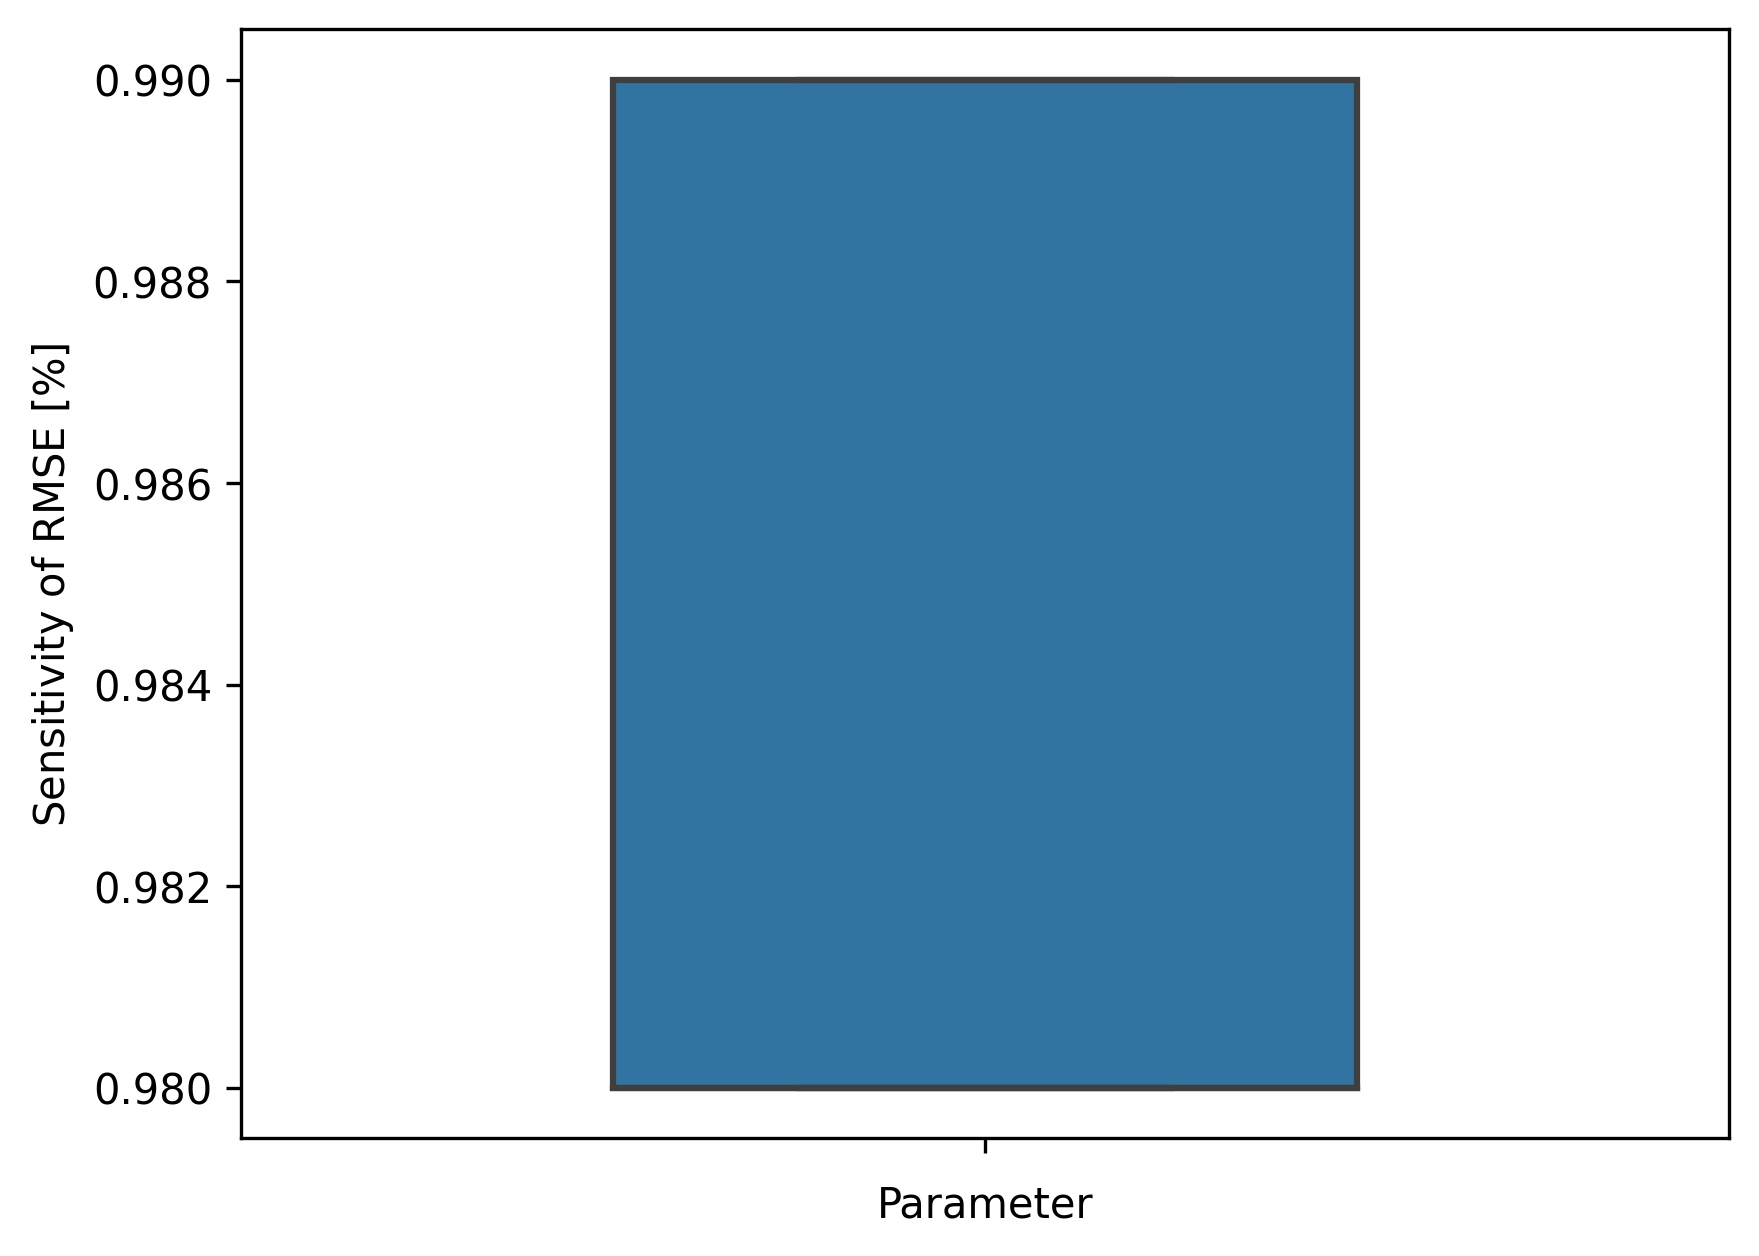
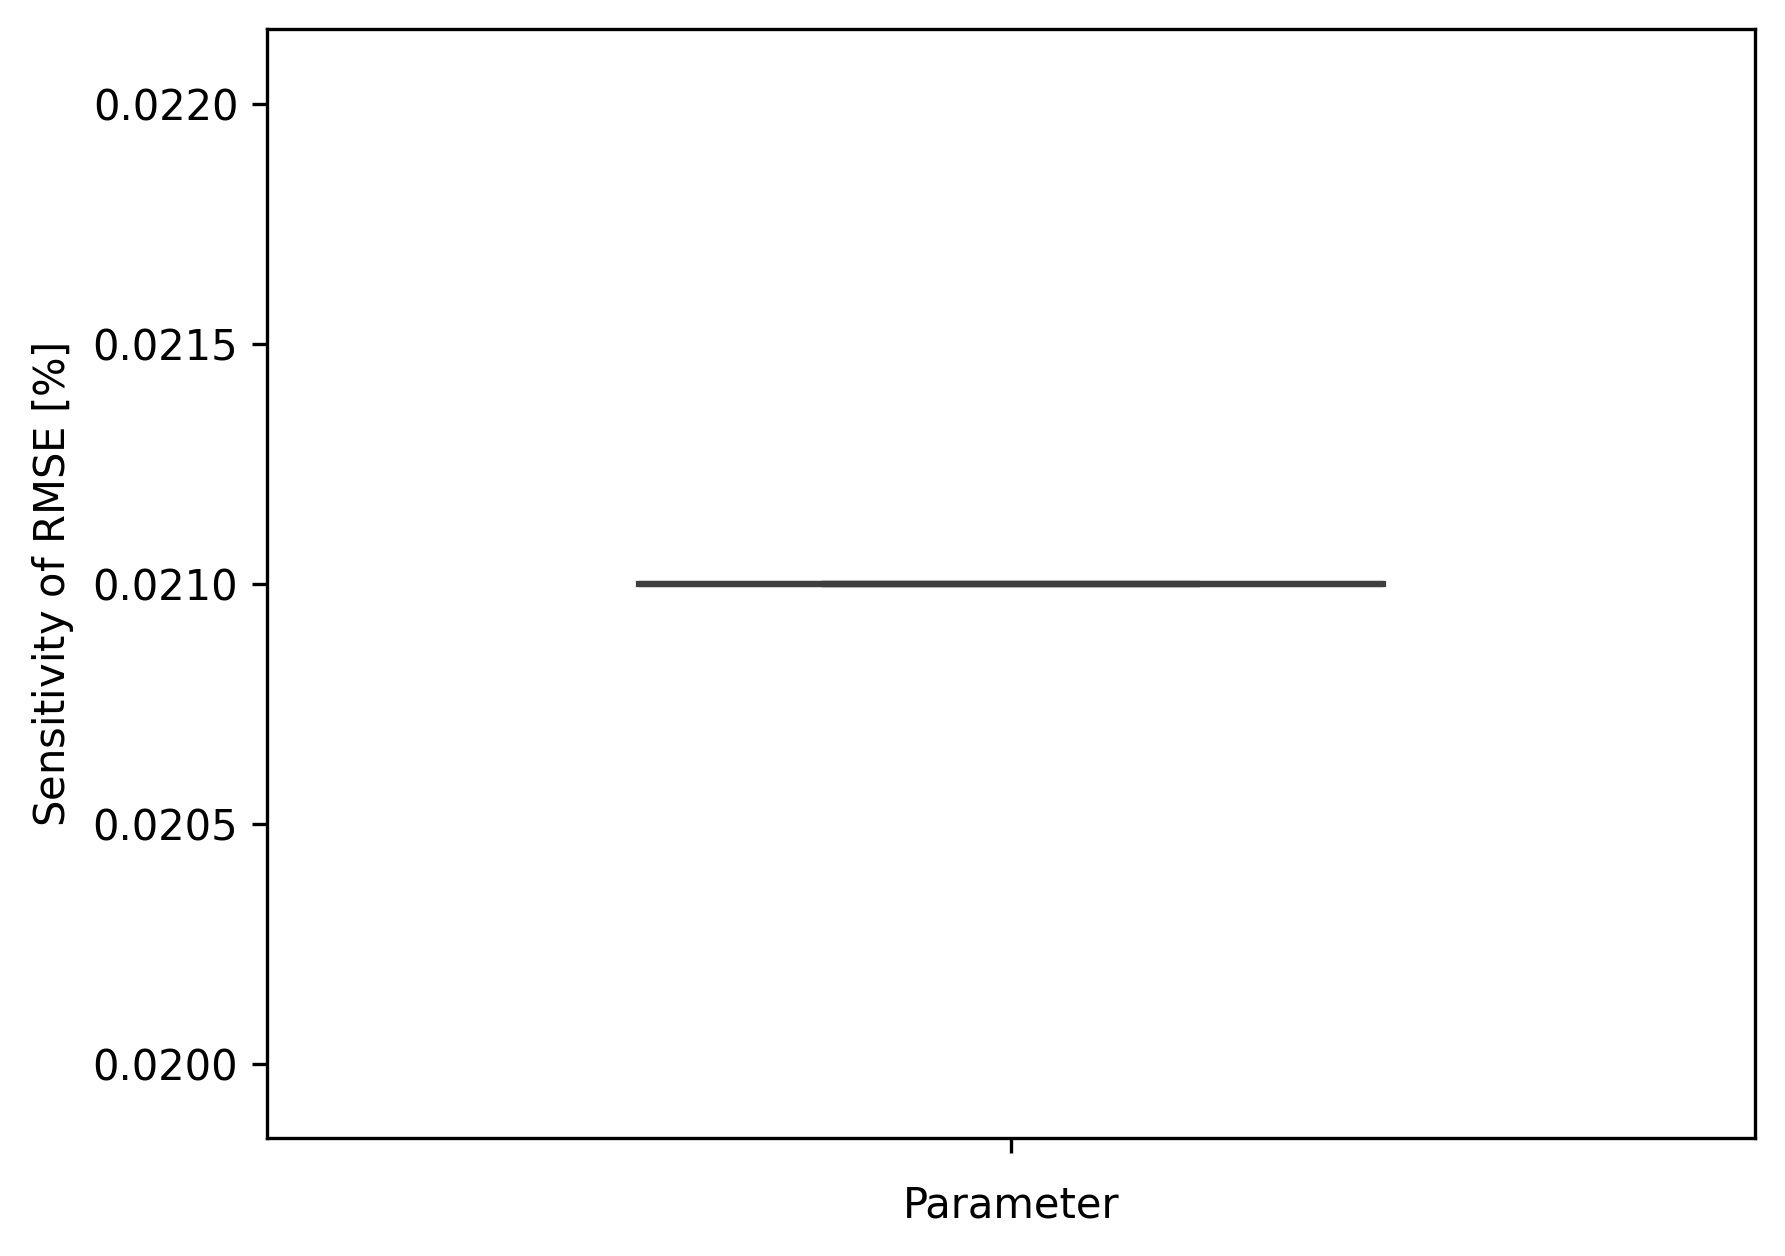
Check gangles albedo

diff --git a/src/utils/validate.py b/src/utils/validate.py
@@ -69,7 +69,7 @@ if __name__ == "__main__":
         logger=logger,
     )
 
-    location = "guttannen21"
+    location = "gangles21"
     # location = "schwarzsee19"
 
     icestupa = Icestupa(location)
@@ -95,14 +95,14 @@ if __name__ == "__main__":
 
 
     tuned_params = [{
-        'IE': np.arange(0.95, 0.991, 0.01).tolist(),
+        # 'IE': np.arange(0.95, 0.991, 0.01).tolist(),
         'A_I': np.arange(0.01, 0.351, 0.05).tolist(),
-        'A_S': bounds(var=icestupa.A_S, res = 0.05),
-        'A_DECAY': bounds(var=icestupa.A_DECAY, res = 0.5),
-        'Z': np.arange(0.001, 0.003, 0.0005).tolist(),
-        'T_PPT': np.arange(0, 3 , 1).tolist(),
-        'T_W': np.arange(0, 3 , 0.5).tolist(),
-        'DX': bounds(var=icestupa.DX, res = 0.0005),
+        # 'A_S': bounds(var=icestupa.A_S, res = 0.05),
+        # 'A_DECAY': bounds(var=icestupa.A_DECAY, res = 0.5),
+        # 'Z': np.arange(0.001, 0.003, 0.0005).tolist(),
+        # 'T_PPT': np.arange(0, 3 , 1).tolist(),
+        # 'T_W': np.arange(0, 3 , 0.5).tolist(),
+        # 'DX': bounds(var=icestupa.DX, res = 0.0005),
     }]
 
     file_path = 'cv-'

diff --git a/src/utils/analyse-validate.py b/src/utils/analyse-validate.py
@@ -69,7 +69,7 @@ if __name__ == "__main__":
     plt.clf()
 
     df = pd.concat([df.drop(['params'], axis=1), df['params'].apply(pd.Series)], axis=1)
-    ax = sns.boxplot( y="IE",  data=df,  width=0.5)
+    ax = sns.boxplot( y="DX",  data=df,  width=0.5)
     ax.set_xlabel("Parameter")
     ax.set_ylabel("Sensitivity of RMSE [$\%$]")
     plt.savefig(FOLDER["sim"]+"hist.jpg", bbox_inches="tight", dpi=300)
